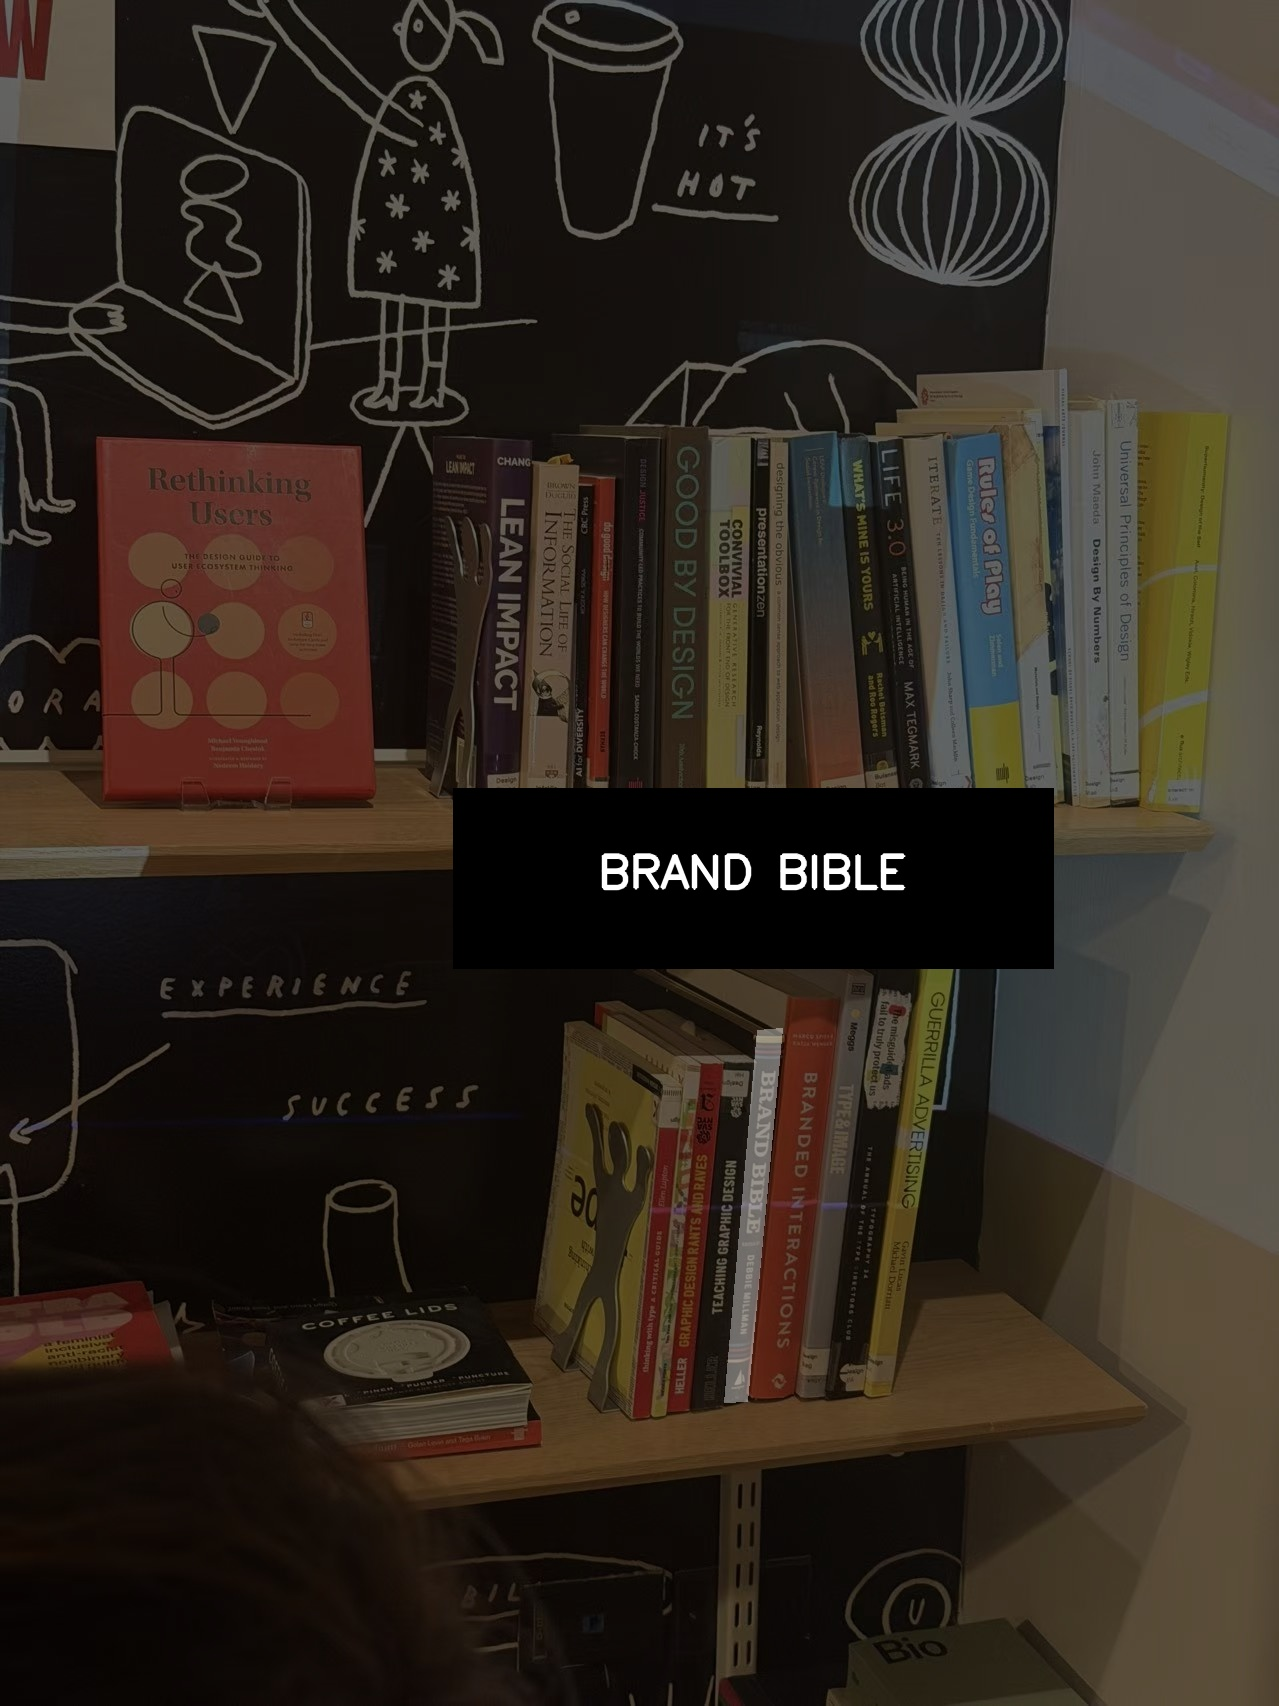
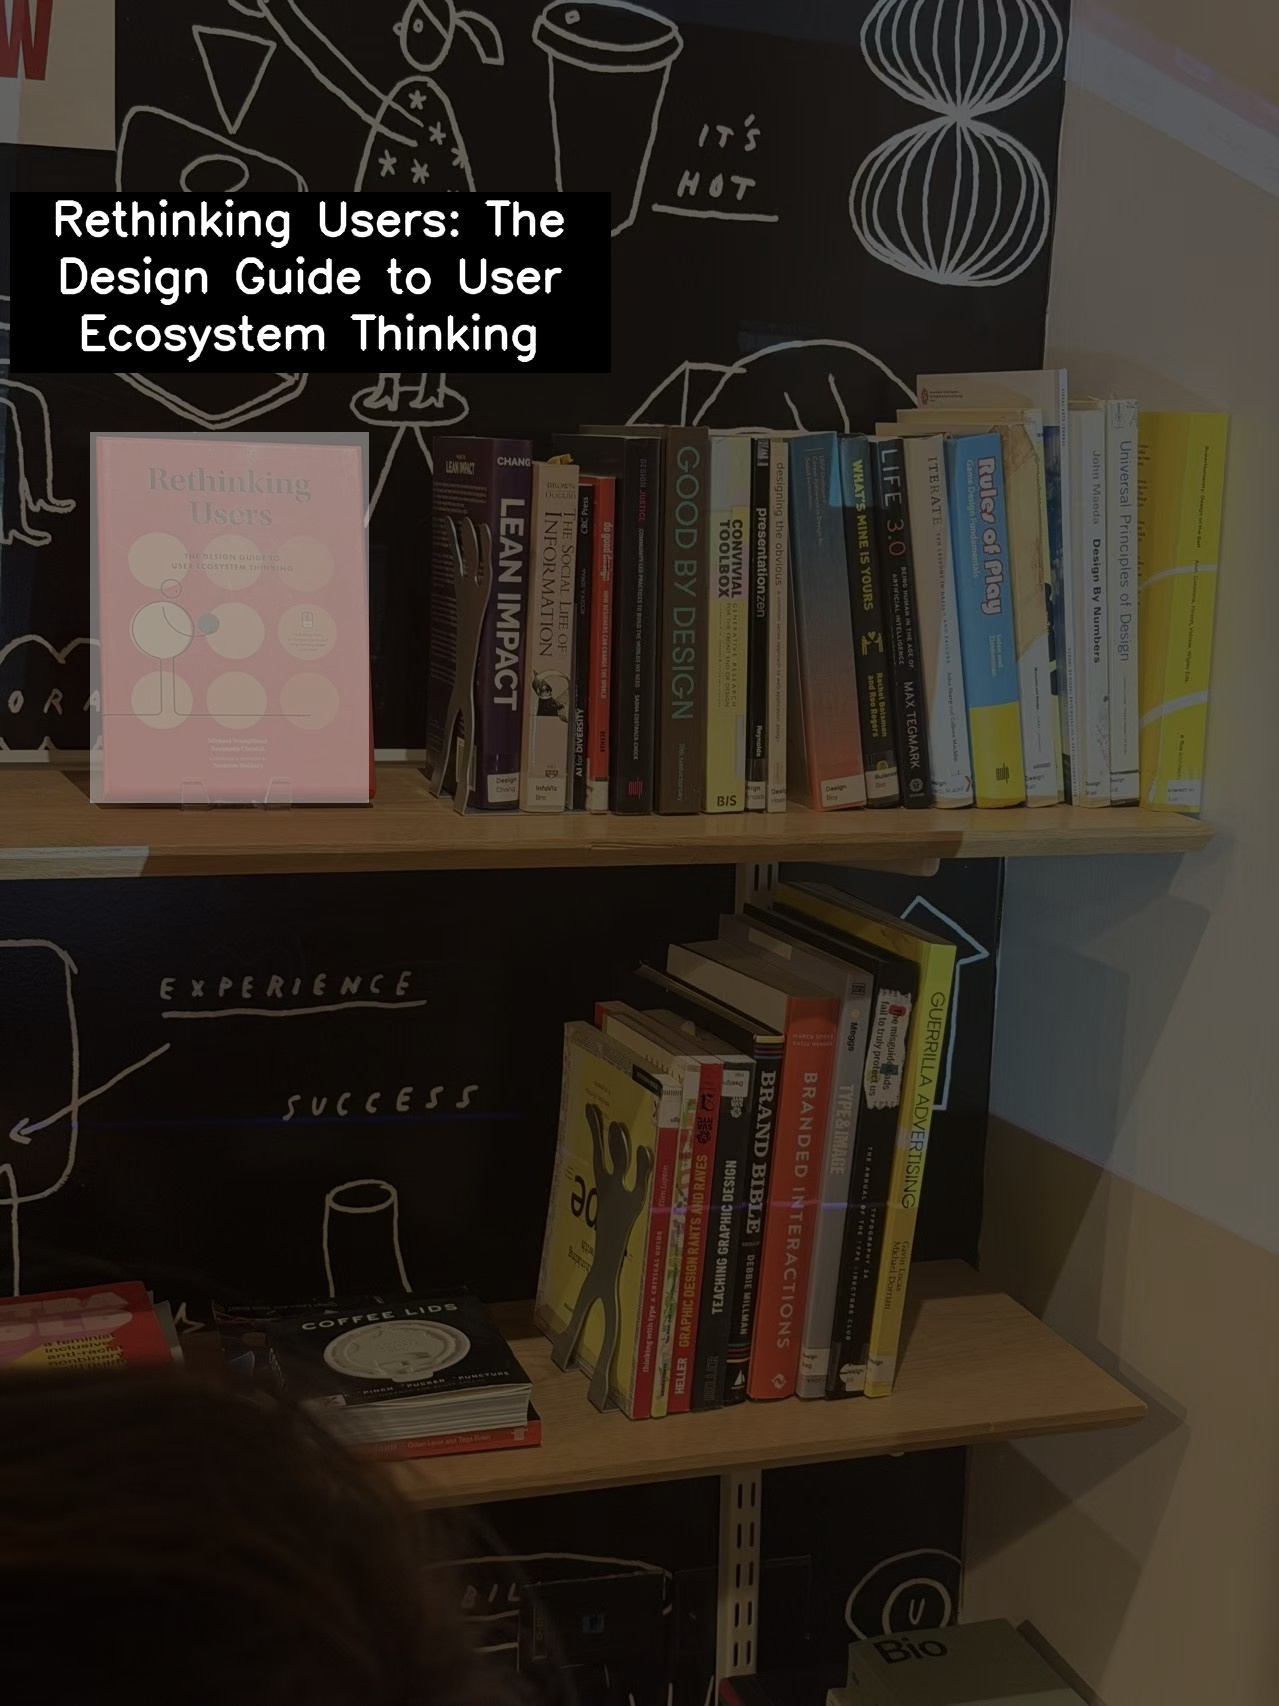
a

Changed region(s): [[0.3354, 0.4349, 0.8233, 0.8388], [0.061, 0.2485, 0.3049, 0.4971], [0.0, 0.0932, 0.4574, 0.2175]]

diff --git a/projector_output/highlight_viewer.html b/projector_output/highlight_viewer.html
@@ -2,7 +2,7 @@
 <html>
 <head>
     <meta charset="UTF-8">
-    <title>Book Highlight - BRAND BIBLE</title>
+    <title>Book Highlight - Rethinking Users: The Design Guide to User Ecosystem Thinking</title>
     <style>
         body {
             margin: 0;

diff --git a/TECHNOLOGY_SUMMARY.md b/TECHNOLOGY_SUMMARY.md
@@ -439,3 +439,6 @@ thread.start()
 
 整个系统体现了**渐进式开发**的理念，从简单的图像处理逐步演进到完整的语音交互系统，技术栈选择合理，架构清晰，易于维护和扩展。
 
+
+
+
